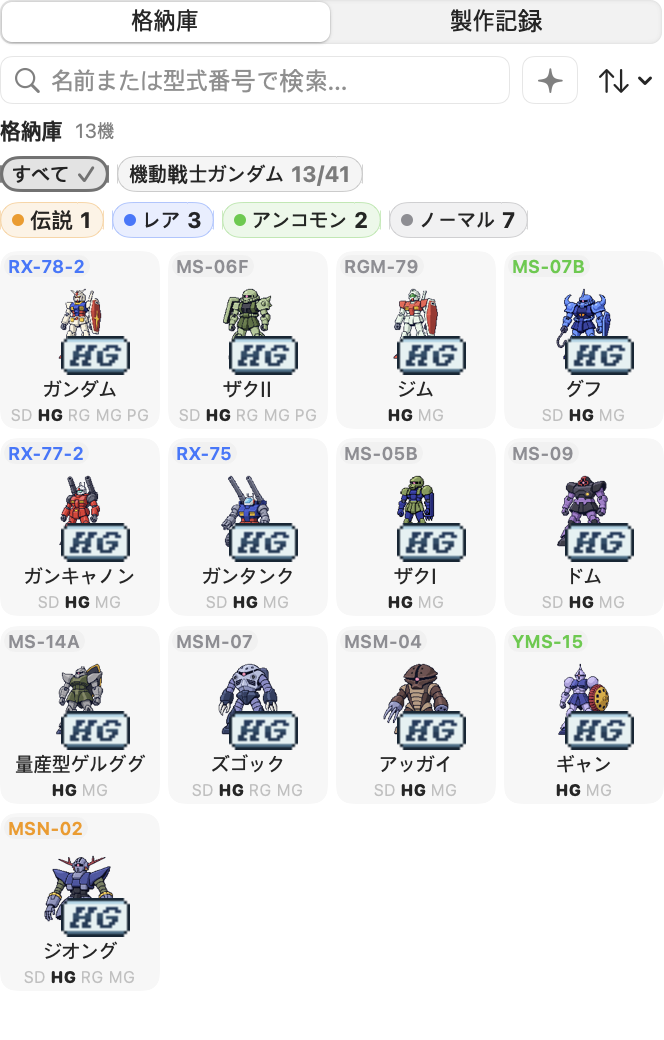
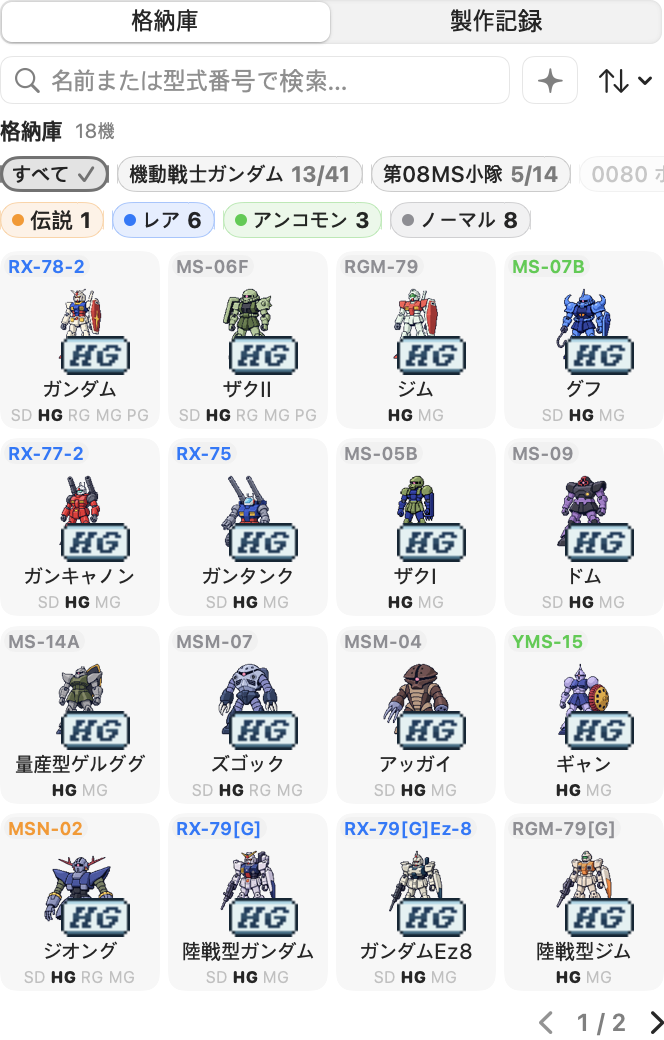
docs: refresh hangar screenshots and versioning for 0.2.0 (#20)
* docs: describe the 0.2.0 roster and refresh hangar screenshots

The README (en/ko/ja) now lists the 44 suits from four series, and the
hangar screenshots show the new series chips. The versioning note says a
sprite drop, which may carry several finished series, raises the minor
version once; counting each Universal Century series would pass 1.0.

* docs: raise the minor version once per sprite drop

A drop may carry several finished series (0.2.0 adds three). Counting
each of the 15 Universal Century series would pass 1.0 before the roster
is done, so the README (en/ko/ja) and CLAUDE.md now say one minor bump
per drop.

---------

diff --git a/CLAUDE.md b/CLAUDE.md
@@ -52,8 +52,9 @@ Claude Code는 `.claude/skills/prepare-pr`의 symlink를 통해
 - "**패치**(해줘)" → x.y.**Z+1** / "**마이너**" → x.**Y+1**.0 / "**메이저**" → **X+1**.0.0
 - 버전을 직접 명시하면("2.4.1 배포") 그 값 그대로.
 - 세그먼트 지정 없이 "배포/릴리스"만 말하면: 변경 성격 기준으로 제안 후 확인받고 진행.
-- **MSTokenBar 로드맵 버전** (2026-11-24 확정): 첫 공개판은 0.1.0(「기동전사 건담」 16기). 작품 하나의
-  도트가 완성되어 등장할 때마다 마이너 +0.1(0.2.0, 0.3.0, …), 우주세기 작품을 모두 그리면 1.0.0.
+- **MSTokenBar 로드맵 버전** (2026-11-24 확정): 첫 공개판은 0.1.0(「기동전사 건담」 16기). 작품 단위로
+  완성한 도트가 올라올 때마다(한 번에 여러 작품이어도 한 번) 마이너 +0.1(0.2.0, 0.3.0, …), 우주세기 작품을
+  모두 그리면 1.0.0. (우주세기 15작품을 작품당 +0.1 로 세면 1.0 을 넘으므로 '올라올 때마다'로 해석한다.)
   사용자가 세그먼트를 말하면 그 지시가 우선한다.
 
 **문서·스크린샷·랜딩 갱신은 매 릴리스 필수다 — "할까요?" 묻지 말고 무조건 한다.**

diff --git a/README.ja.md b/README.ja.md
@@ -33,7 +33,7 @@ macOS 14 以降。
 
 ## バージョン規則
 
-作品 1 本分のドット絵が完成するたびにマイナーバージョンを上げます（0.1.0、0.2.0、…）。宇宙世紀の全作品を描き終えたら 1.0.0 を出します。
+作品単位で完成したドット絵を追加するたびにマイナーバージョンを上げます（0.1.0、0.2.0、…）。宇宙世紀の全作品を描き終えたら 1.0.0 を出します。
 
 ## ソースからビルド
 

diff --git a/README.md b/README.md
@@ -33,7 +33,7 @@ When a new version is out, the app shows an update banner. Click **Update** and 
 
 ## Versioning
 
-Each finished series of sprites raises the minor version (0.1.0, 0.2.0, …). Version 1.0.0 ships when every Universal Century series is drawn.
+Each sprite drop, which adds one or more finished series, raises the minor version (0.1.0, 0.2.0, …). Version 1.0.0 ships when every Universal Century series is drawn.
 
 ## Build from source
 

diff --git a/README.ko.md b/README.ko.md
@@ -33,7 +33,7 @@ macOS 14 이상.
 
 ## 버전 규칙
 
-작품 하나의 도트가 완성될 때마다 마이너 버전을 올립니다(0.1.0, 0.2.0, …). 우주세기 작품을 모두 그리면 1.0.0을 냅니다.
+작품 단위로 완성한 도트를 올릴 때마다 마이너 버전을 올립니다(0.1.0, 0.2.0, …). 우주세기 작품을 모두 그리면 1.0.0을 냅니다.
 
 ## 소스에서 빌드
 
